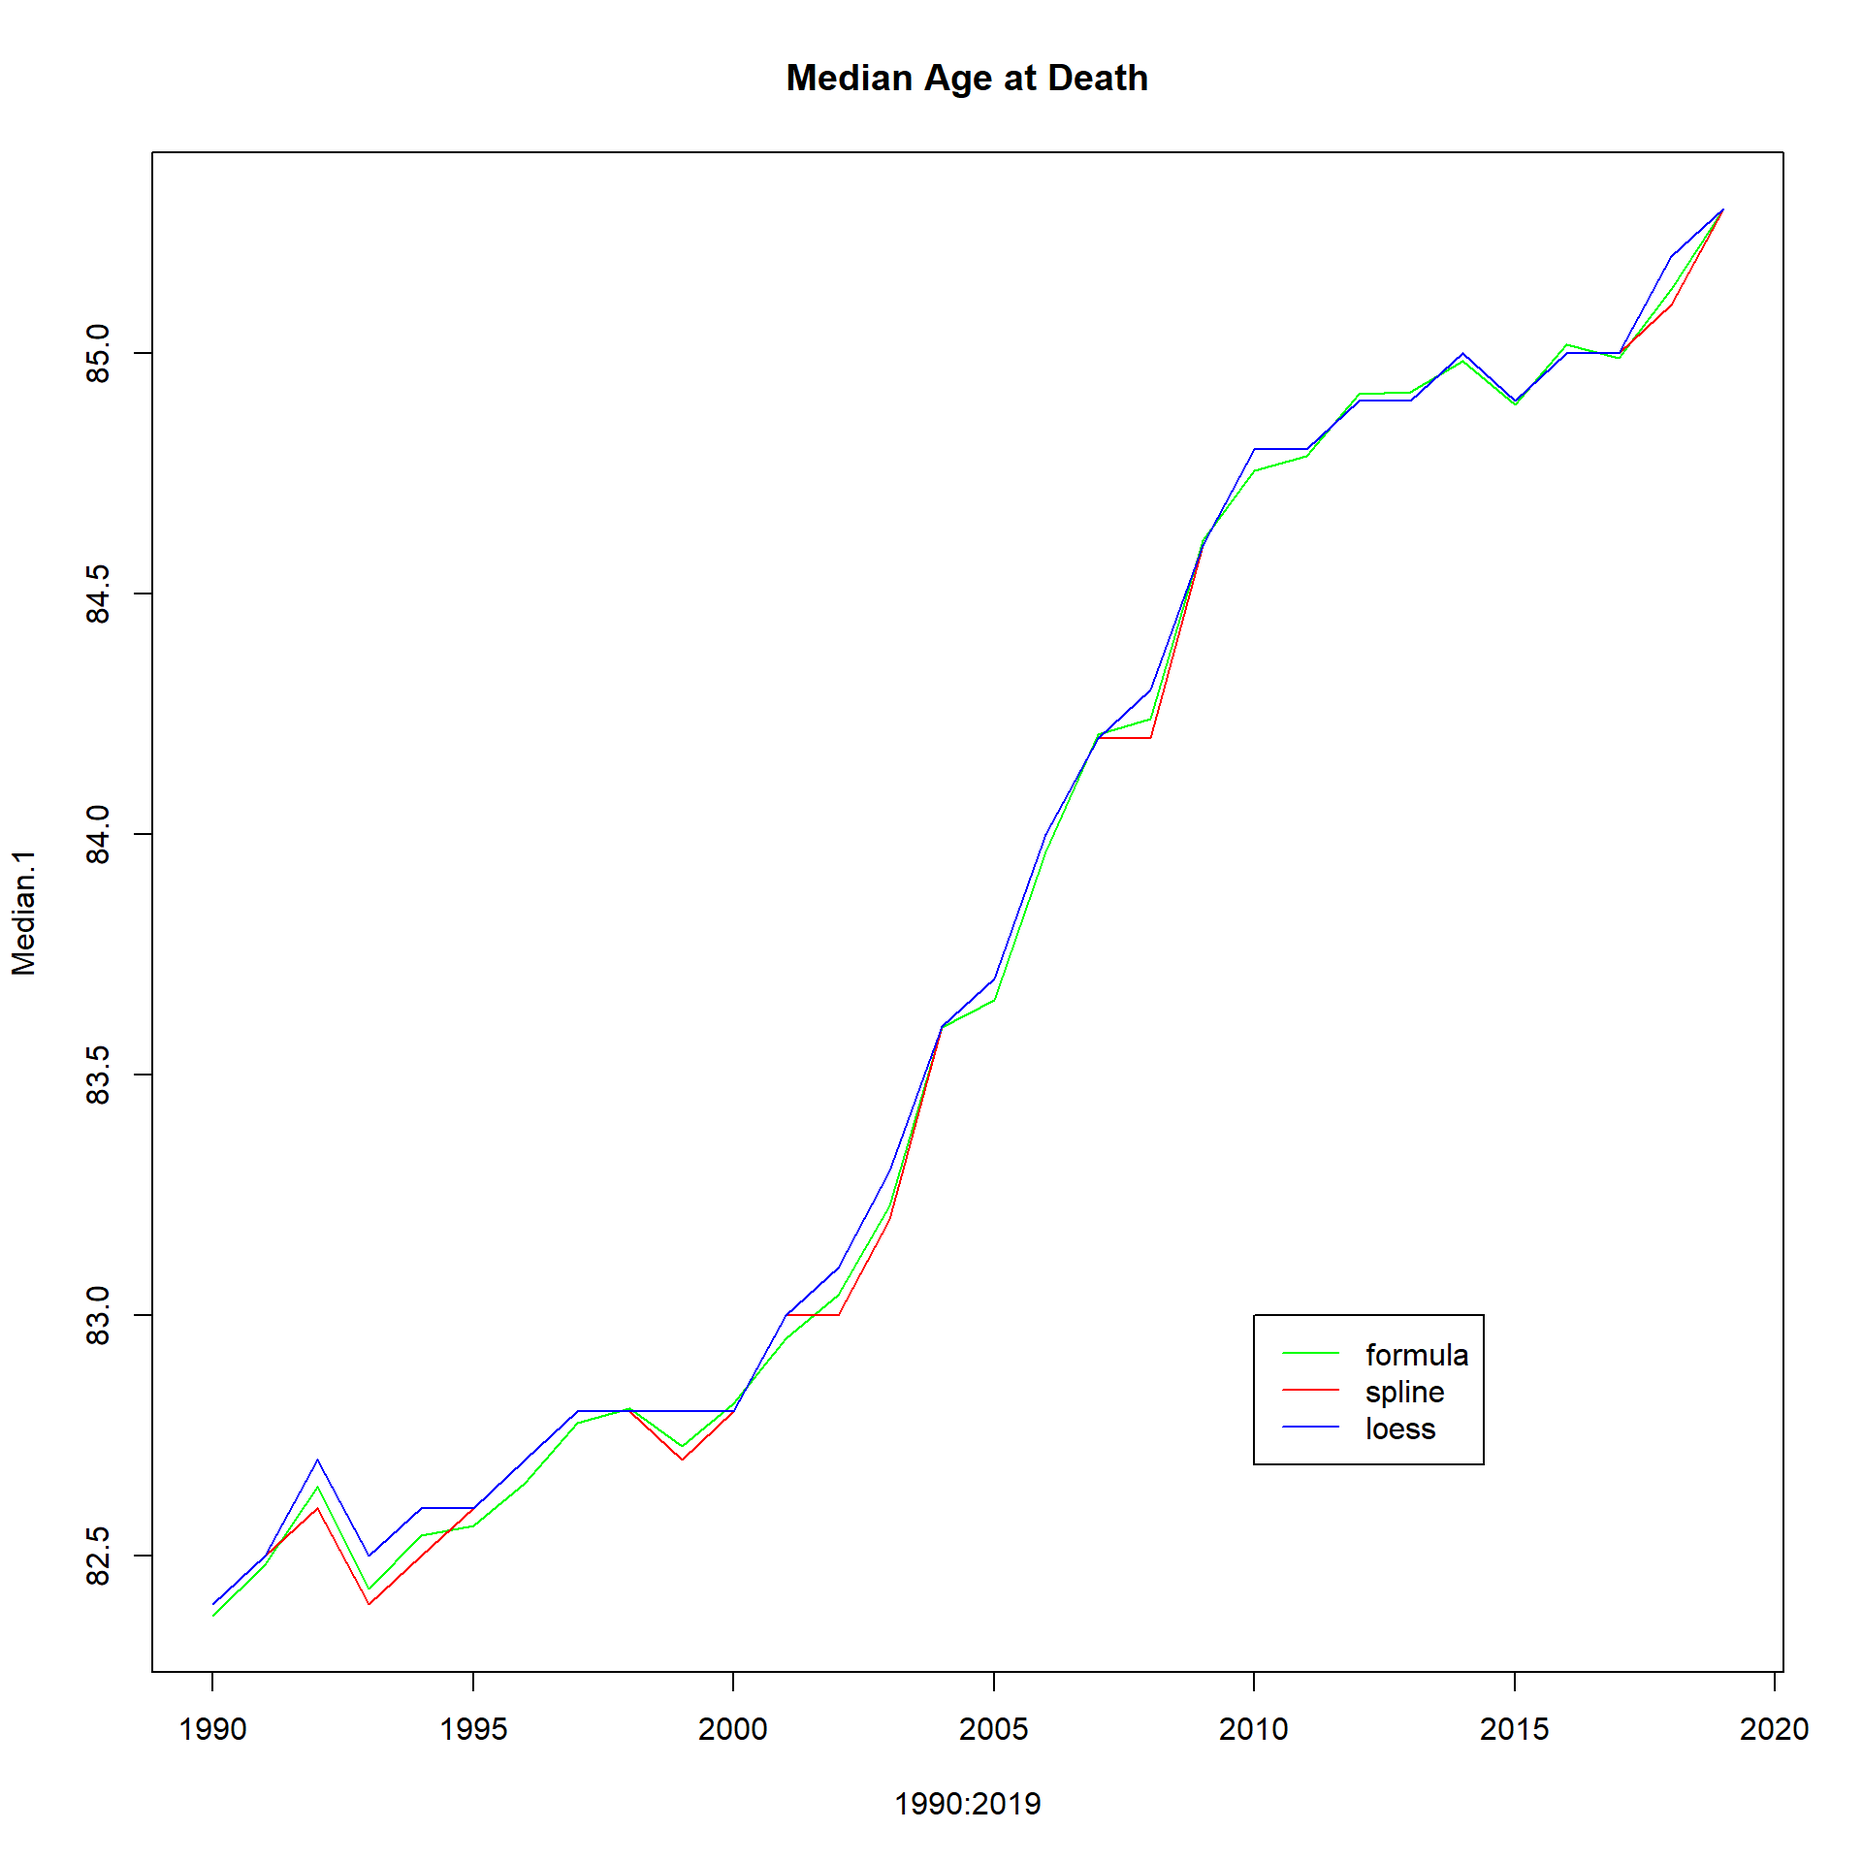
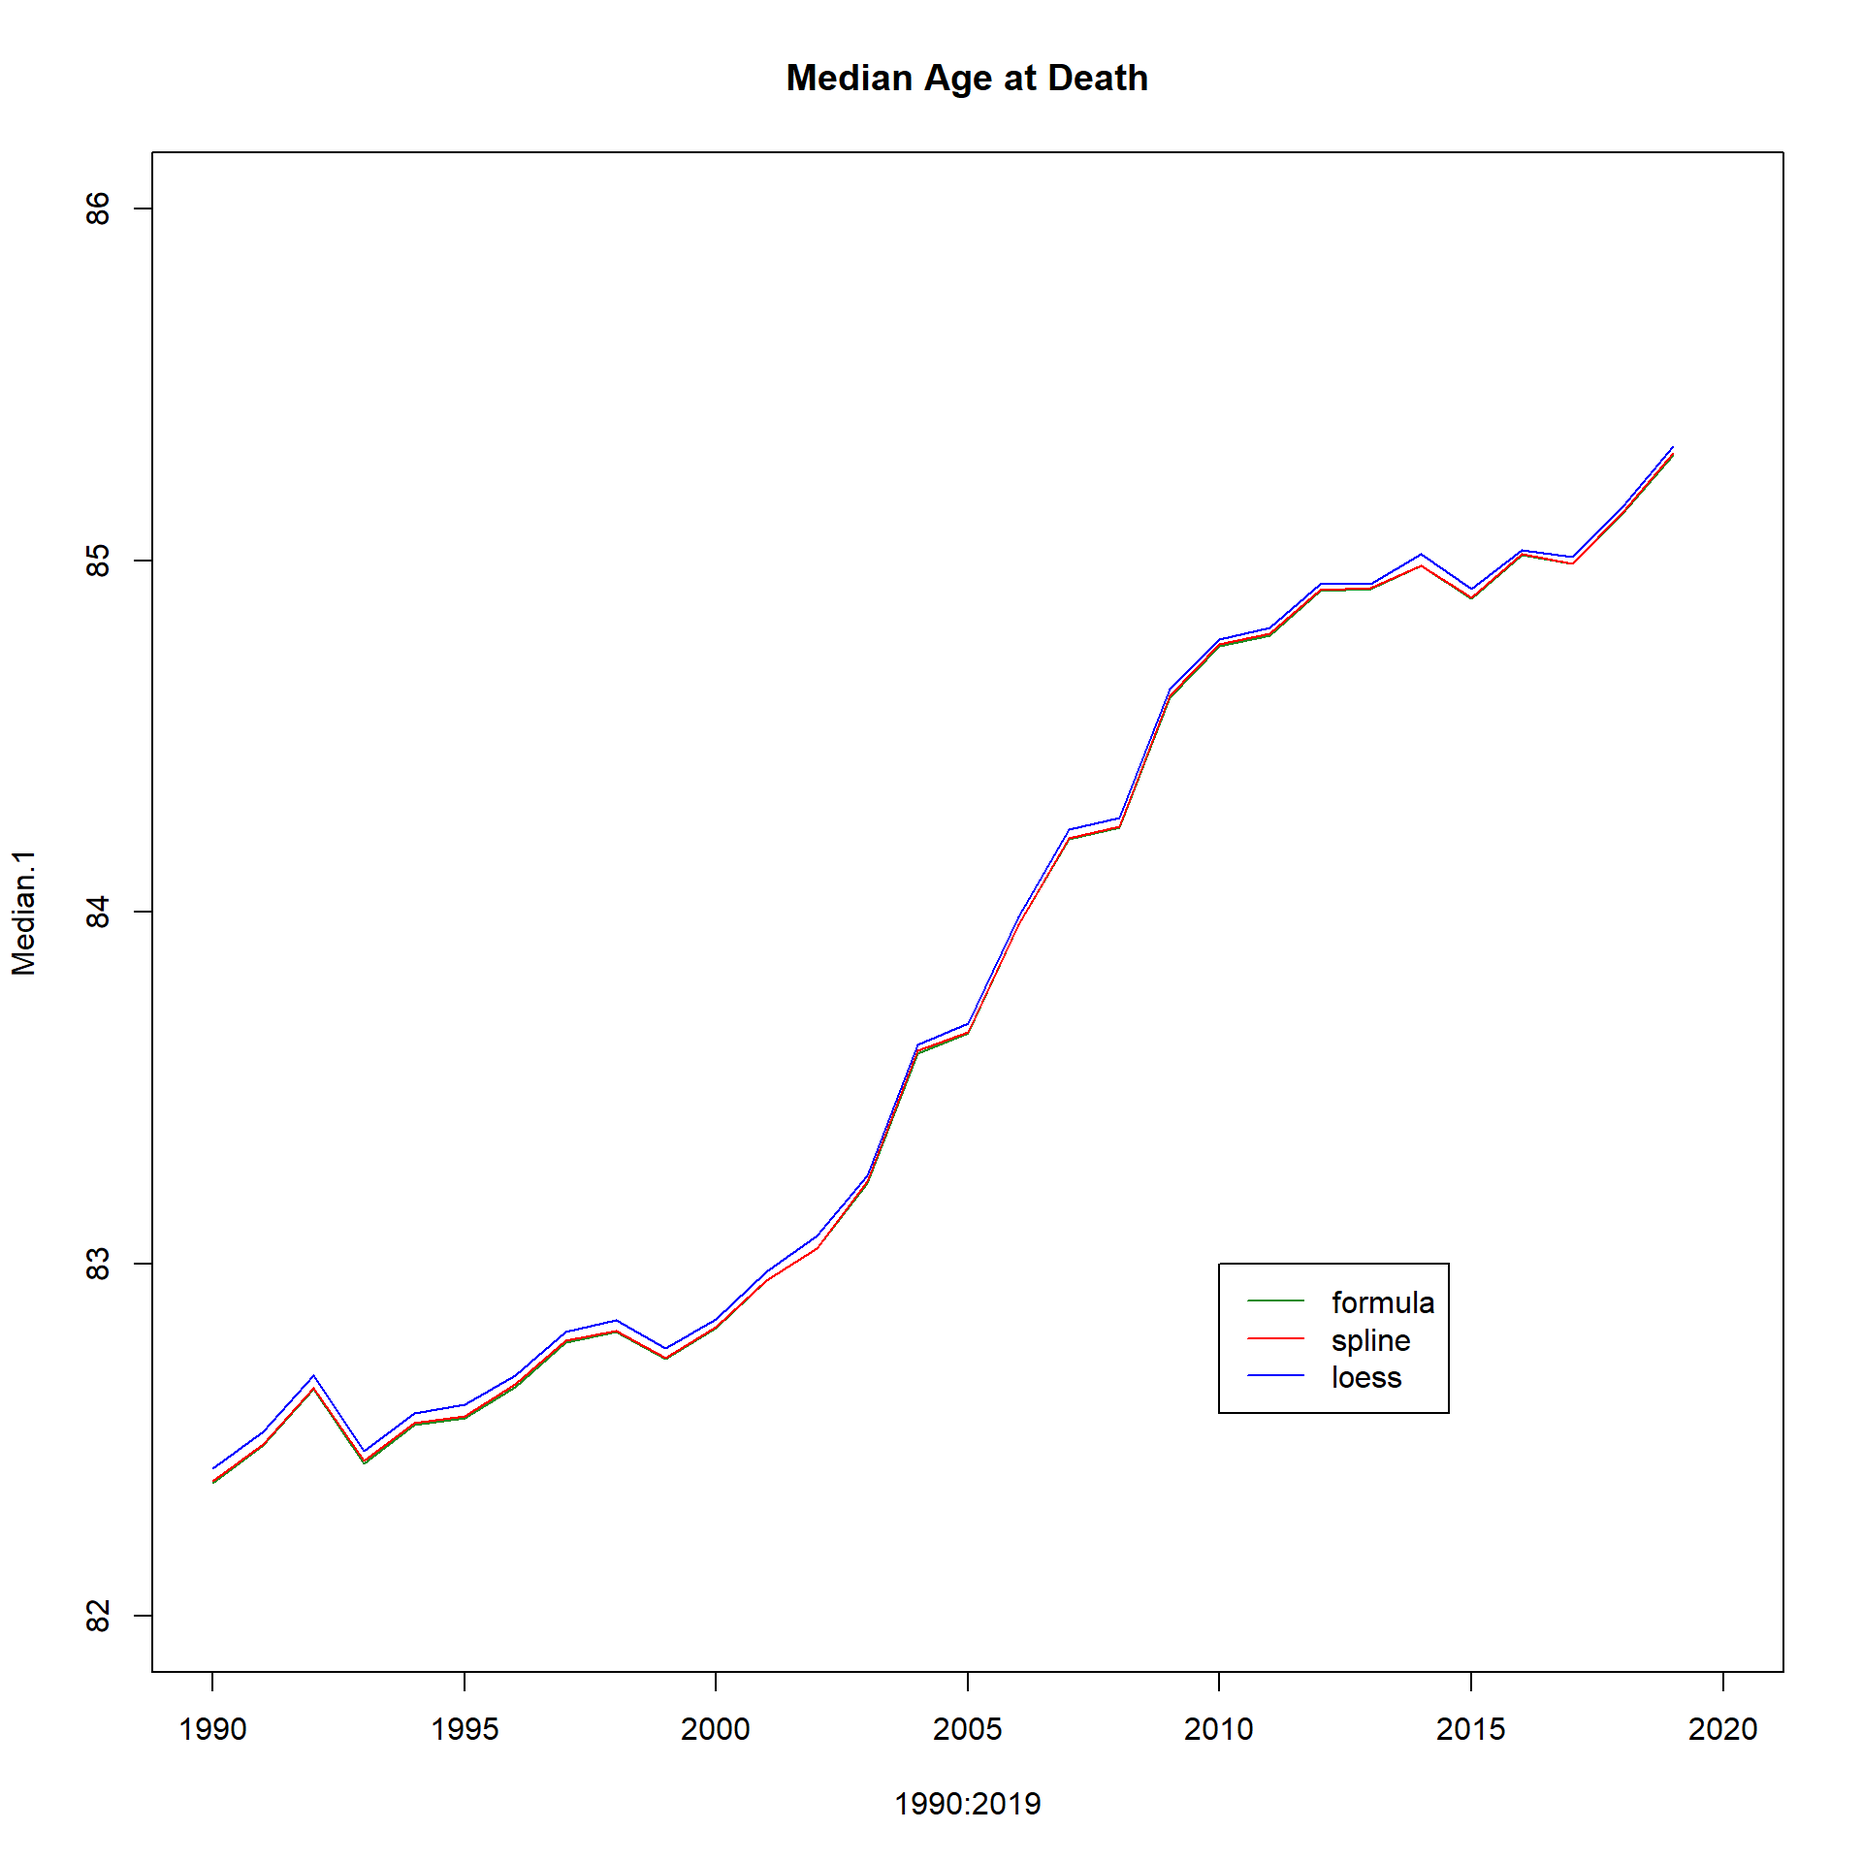
IncludeMortSmooth

diff --git a/content/post/2021-12-19-MedianMode/index.en.html b/content/post/2021-12-19-MedianMode/index.en.html
@@ -25,11 +25,11 @@ slug: MedianMode
 
 <div id="background" class="section level1">
 <h1>Background</h1>
-<p>Longevity is often measured through time trends in the mean age at death (MAD). In addition to MAD, there are two other interesting metrics, which can be calculated from life table functions. Namely, the median age at death and the modal age at death. The former refers to the age when half of the population has died, while the latter defines the age where most deaths are observed. Demographers are often interested in analyzing these two figures with decimals precision. In the previous literature, several methods for this purpose have been proposed. I selected some of them and provide R functions, enabling researchers to calculate the median age at death and the modal age at death with decimals points. To the best of my knowledge, there are currently no R functions on this topic. So, please feel free to improve and extent this work. As mentioned above, I focus on methods that can be applied to life table functions. For simplicity, I do not consider methods using smoothed death rates (smoothing age-specific death counts with the corresponding exposure as offsets and deriving death rates).</p>
+<p>Longevity is often measured through time trends in the mean age at death (MAD). In addition to MAD, there are two other interesting metrics, which can be calculated from life table functions. Namely, the median age at death and the modal age at death. The former refers to the age when half of the population has died, while the latter defines the age where most deaths are observed. Demographers are often interested in analyzing these two figures with decimals precision. In the previous literature, several methods for this purpose have been proposed. I selected some of them and provide R functions, enabling researchers to calculate the median age at death and the modal age at death with decimals points. Further, I compare the methods with data for US women from 1990 to 2019. To the best of my knowledge, there are currently no R functions on this topic. So, please feel free to improve and extent this work.</p>
 </div>
 <div id="calculating-the-median-age-at-death-with-decimals" class="section level1">
 <h1>Calculating the Median Age at Death with Decimals</h1>
-<p>One method for calculating the median age at death has been described by Canudas-Romo (2010) wich is based on the work of Kannisto (2001). My Rcode focuses on equation A1 in Canudas-Romo (2010),
+<p>One method for calculating the median age at death has been described by Canudas-Romo (2010). My Rcode focuses on equation A1 on page 309,
 <span class="math display">\[
 Median(t) = x + \frac{[0.5 - l(x,t)]}{[l(x+1, t) - l(x,t)]},
 \]</span>
@@ -66,11 +66,10 @@ Median1.fun &lt;- function(lx) {
 <pre class="r"><code>### using the splinefun
 smooth.lx = splinefun(lx ~ age)
 ###you can modify the &quot;by argument&quot; for smaller age intervals
-decimal.lx = smooth.lx(seq(0,age[length(age)], by=0.1))
+decimal.lx = smooth.lx(seq(0,age[length(age)], by=0.001))
 smooth.Sx = decimal.lx/decimal.lx[1]
-x = smooth.Sx - 0.5
 the.x = which.min(abs(smooth.Sx - 0.5))
-Median = seq(0,110, by=0.1)[the.x]
+Median = seq(0,110, by=0.001)[the.x]
 
 ###corresponding function
 Median2.fun &lt;- function(lx) {
@@ -78,11 +77,10 @@ Median2.fun &lt;- function(lx) {
   last.age = length(lx)-1
   age = 0:last.age
   smooth.lx = splinefun(lx ~ age)
-  decimal.lx = smooth.lx(seq(0, age[length(age)], by=0.1))
+  decimal.lx = smooth.lx(seq(0, age[length(age)], by=0.001))
   smooth.Sx = decimal.lx/decimal.lx[1]
-  x = smooth.Sx - 0.5
   the.x = which.min(abs(smooth.Sx - 0.5))
-  Median = seq(0, age[length(age)], by=0.1)[the.x]
+  Median = seq(0, age[length(age)], by=0.001)[the.x]
   
   return(Median)
 }
@@ -90,11 +88,10 @@ Median2.fun &lt;- function(lx) {
 
 ###using loess function
 smooth.lx = loess(lx ~ age, span=0.1, degree=2)
-decimal.lx = predict(smooth.lx, newdata=seq(0, age[length(age)], by=0.1))
+decimal.lx = predict(smooth.lx, newdata=seq(0, age[length(age)], by=0.001))
 smooth.Sx = decimal.lx/decimal.lx[1]
-x = smooth.Sx - 0.5
 the.x = which.min(abs(smooth.Sx - 0.5))
-Median = seq(0, age[length(age)], by=0.1)[the.x]
+Median = seq(0, age[length(age)], by=0.001)[the.x]
 
 ###corresponding function
 Median3.fun &lt;- function(lx) {
@@ -102,11 +99,10 @@ Median3.fun &lt;- function(lx) {
   last.age = length(lx)-1
   age = 0:last.age
   smooth.lx = loess(lx ~ age, span=0.1, degree=2)
-  decimal.lx = predict(smooth.lx, newdata=seq(0, age[length(age)], by=0.1))
+  decimal.lx = predict(smooth.lx, newdata=seq(0, age[length(age)], by=0.001))
   smooth.Sx = decimal.lx/decimal.lx[1]
-  x = smooth.Sx - 0.5
   the.x = which.min(abs(smooth.Sx - 0.5))
-  Median = seq(0, age[length(age)], by=0.1)[the.x]
+  Median = seq(0, age[length(age)], by=0.001)[the.x]
   
   return(Median)
   
@@ -116,14 +112,14 @@ Median3.fun &lt;- function(lx) {
 Median1.fun(lx = LT.women$lx[LT.women$Year==2019])</code></pre>
 <pre><code>## [1] 85.29959</code></pre>
 <pre class="r"><code>Median2.fun(lx = LT.women$lx[LT.women$Year==2019])</code></pre>
-<pre><code>## [1] 85.3</code></pre>
+<pre><code>## [1] 85.305</code></pre>
 <pre class="r"><code>Median3.fun(lx = LT.women$lx[LT.women$Year==2019])</code></pre>
-<pre><code>## [1] 85.3</code></pre>
+<pre><code>## [1] 85.324</code></pre>
 <p>The results are very similar.</p>
 </div>
 <div id="calculating-the-modal-age-at-death-with-decimals" class="section level1">
 <h1>Calculating the Modal Age at Death with Decimals</h1>
-<p>The first method for calculating the modal age at death with decimals is again taken from Canudas-Romo (2010). The equation can be found on page 309 in the paper,
+<p>The first method for calculating the modal age at death with decimals is taken from Kannisto (2001). The equation can be found on page 163 in the paper,
 <span class="math display">\[
 Modal(t) = x + \frac{[d(x,t)-d(x-1,t)]}{[d(x,t)-d(x-1,t)]+[d(x,t)-d(x+1,t)]},
 \]</span>
@@ -167,15 +163,15 @@ Mode2.fun &lt;- function(dx) {
 
 ### The loess approach, again no infant mortality considered
 loess.smooth.dx = loess(dx[-1] ~ age[-1], span=0.1, degree = 2)
-y = predict(loess.smooth.dx, newdata = seq(1, age[length(age)], by=0.1))
-Mode = seq(1, age[length(age)], by=0.1)[which.max(y)]
+y = predict(loess.smooth.dx, newdata = seq(1, age[length(age)], by=0.001))
+Mode = seq(1, age[length(age)], by=0.001)[which.max(y)]
 
 ###the corresponding function
 Mode3.fun &lt;- function(dx) {
 
   loess.smooth.dx = loess(dx[-1] ~ age[-1], span=0.1, degree = 2)
-  y = predict(loess.smooth.dx, newdata = seq(1, age[length(age)], by=0.1))
-  Mode = seq(1, age[length(age)], by=0.1)[which.max(y)]
+  y = predict(loess.smooth.dx, newdata = seq(1, age[length(age)], by=0.001))
+  Mode = seq(1, age[length(age)], by=0.001)[which.max(y)]
 
   return(Mode)  
 }
@@ -186,11 +182,62 @@ Mode1.fun(dx = LT.women$dx[LT.women$Year==2019])</code></pre>
 <pre class="r"><code>Mode2.fun(dx = LT.women$dx[LT.women$Year==2019])</code></pre>
 <pre><code>## [1] 88.74962</code></pre>
 <pre class="r"><code>Mode3.fun(dx = LT.women$dx[LT.women$Year==2019])</code></pre>
-<pre><code>## [1] 88.6</code></pre>
+<pre><code>## [1] 88.554</code></pre>
+</div>
+<div id="using-camardas-mortalitysmooth-package-for-deriving-death-counts-with-decimals" class="section level1">
+<h1>Using Camarda’s MortalitySmooth package for deriving death counts with decimals</h1>
+<p>The following method uses Camarda’s <a href="https://www.jstatsoft.org/article/view/v050i01">MortalitySmooth</a> package for deriving age-specific mortality rates in tiny age intervals. These rates are then used to obtain the age-specific survivorship function and the corresponding age-specific death distribution. The maximum of the death distribution (in tiny age intervals) gives the modal age at death with decimals. The method has been proposed by Horiuchi et.al (2013) and the R code is taken from their paper (page 60). Please note that the smoothing of death rates considers the ages 10-110. I run into problems when I want to fit the model to data with age ranging from 1 to 110.</p>
+<pre class="r"><code>####MortalitySmooth is currently only available through the cran archive
+###require(devtools)
+###install_version(&quot;MortalitySmooth&quot;, version = &quot;2.3.4&quot;, repos = ###&quot;https://cran.r-project.org&quot;)
+### The package requires the &quot;svcm&quot; package which can also be downloaded from
+### the cran archives, make sure that Rtools is installed on your computer
+
+library(MortalitySmooth)</code></pre>
+<pre><code>## Lade nötiges Paket: svcm</code></pre>
+<pre><code>## Lade nötiges Paket: Matrix</code></pre>
+<pre><code>## Lade nötiges Paket: splines</code></pre>
+<pre><code>## Lade nötiges Paket: lattice</code></pre>
+<pre class="r"><code>###reading in death counts and exposure
+setwd(&quot;d:/Rcode/Data/USA&quot;)
+Dx.LT &lt;- read.table(&quot;Deaths_1x1.txt&quot;, header=TRUE, skip=2)
+Ex.LT &lt;- read.table(&quot;Exposures_1x1.txt&quot;, header=TRUE, skip=2)
+
+Horiuchi.et.al.2013.fun &lt;- function(age, Dx, Ex, delta) {
+  
+  D &lt;- Dx[age+1]
+  E &lt;- Ex[age+1]
+  fit &lt;- Mort1Dsmooth(x = age, y = D,
+                      offset = log(E))
+  age.narrow &lt;- seq(from = min(age), to = max(age), by = delta)
+  log.mu.hat &lt;- predict(object = fit, newdata = age.narrow)
+  mu.hat &lt;- exp(log.mu.hat)
+  l.hat &lt;- exp(-cumsum(mu.hat ∗ delta))
+  d.hat &lt;- mu.hat ∗ l.hat
+  M.hat &lt;- age.narrow[which.max(d.hat)]
+ 
+  return(M.hat)  
+}
+
+
+
+MortSmooth.Mode &lt;- c()
+
+for (i in 1:length(1990:2019)) {
+
+  Dx &lt;- Dx.LT$Female[Dx.LT$Year==1989+i]
+  Ex &lt;- Ex.LT$Female[Ex.LT$Year==1989+i]
+  
+  MortSmooth.Mode[i] &lt;- Horiuchi.et.al.2013.fun(age=10:110,
+                                           delta=0.001,
+                                           Dx=Dx,
+                                           Ex=Ex)
+  
+}</code></pre>
 </div>
 <div id="two-general-function-for-the-median-age-at-death-and-the-modal-age-at-death" class="section level1">
 <h1>Two General Function for the Median Age at Death and the Modal Age at Death</h1>
-<p>Finally, I provide two general functions where the method can be selected through the function argument “method”.</p>
+<p>Finally, I provide two general functions where the method can be selected through the function argument “method”. Since the method using “MortalitySmooth” requires different function inputs, i.e., death counts and exposures as compared to life table functions, I do not include this method in the general function.</p>
 <pre class="r"><code>MedianAge &lt;- function(lx, method = c(&quot;formula&quot;, &quot;spline&quot;, &quot;loess&quot;)) {
     
   if (method == &quot;formula&quot;) {
@@ -247,7 +294,7 @@ Modal.3[i] &lt;- ModeAge(dx = LT.women$dx[LT.women$Year==1989+i], method=&quot;l
 
 }</code></pre>
 <p><img src="{{< blogdown/postref >}}index.en_files/figure-html/Fig1-1.png" width="960" /><img src="{{< blogdown/postref >}}index.en_files/figure-html/Fig1-2.png" width="960" />
-The results suggest that all three methods produce similar results for the median age at death. For the modal age at death, method “formula” corresponds to the “spline” approach. The “loess” method, however, can lead to considerably different results.</p>
+The results suggest that the three methods, “formula”, “spline”, and “loess”, produce very similar results for the median age at death. For the modal age at death, method “formula” corresponds to the “spline” approach. The “loess” method as well as the “MortSmooth” approach can considerably differ from these values.</p>
 </div>
 <div id="references" class="section level1">
 <h1>References</h1>

diff --git a/content/publication/CompStudies/index.md b/content/publication/CompStudies/index.md
@@ -1,0 +1,14 @@
+---
+title: "Decrease in Life Expectancy in Germany in 2020: Men from Eastern Germany Most Affected "
+date: 2021-12-21
+publishDate: 2021-12-21
+authors: ["Marc Luy","Markus Sauerberg", "Magdalena Muszyńska-Spielauer ", "Vanessa Di Lego"]
+publication_types: ["2"]
+abstract: "The COVID-19 pandemic caused an increase in mortality in 2020 with a resultant decrease in life expectancy in most countries around the world. In Germany, the reduction in life expectancy at birth between 2019 and 2020 was comparatively small, at -0.20 years. The decrease was stronger among men than among women (-0.24 vs. -0.13 years) and in eastern rather than in western Germany (-0.36 vs. -0.16 years). Men in eastern Germany experienced the biggest decline in life expectancy at birth (-0.41 years). For western German men, the decline was less pronounced (-0.19 years). Among women, the decline in life expectancy at birth was also greater in eastern (-0.25 years) than in western Germany (-0.10 years). As a result of these developments, the differences in life expectancy between the two parts of Germany, and between women and men, increased compared with the previous year. Life expectancy at age 65 decreased more strongly than life expectancy at birth for both sexes and in all regions. This reflects the fact that it was mainly older age groups that were affected by the increase in mortality in 2020. This paper provides further insights into mortality changes in 2020, based on age decomposition and an analysis of lifespan inequality. We conclude that the population in eastern Germany was hit harder by the COVID-19 pandemic in 2020 than the population in the western Germany."
+featured: false
+image:
+  preview_only: true
+publication: "*Comparative Population Studies*:46, 555-574."
+url_pdf: "https://www.comparativepopulationstudies.de/index.php/CPoS/article/view/460"
+doi: "https://doi.org/10.12765/CPoS-2021-20"
+---
